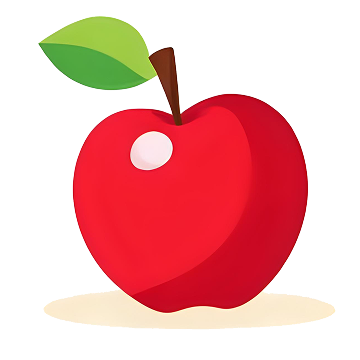
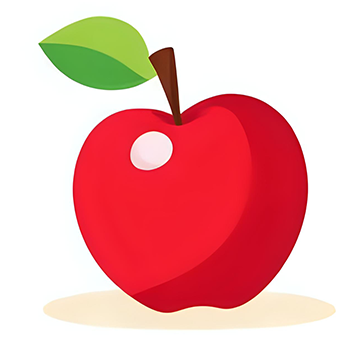
增加图片显示种类

Changed region(s): [[0.7333, 0.7944, 0.7639, 0.825], [0.4583, 0.1222, 0.4889, 0.1528]]

diff --git a/modules/play_pi.py b/modules/play_pi.py
@@ -168,9 +168,15 @@ def execute_response(data_dict: dict) -> bool:
                         english_word = str(noun)
                         chinese_word = ""
                     
+                    # 尝试使用单词对应的图片，如果不存在则使用默认图片
+                    word_image_path = os.path.join(PROJECT_ROOT, "imgs", "words", f"{english_word}.png")
+                    if not os.path.exists(word_image_path):
+                        word_image_path = default_word_image
+                        print(f"  ⚠ 单词图片不存在，使用默认图片: {word_image_path}")
+                    
                     # 名词：英文单词和中文翻译都要有
                     flashcard_maker.create_and_display(
-                        image_path=default_word_image,
+                        image_path=word_image_path,
                         english_word=english_word,
                         chinese_word=chinese_word,
                         display_driver=display_driver,
@@ -200,9 +206,15 @@ def execute_response(data_dict: dict) -> bool:
                         english_word = str(verb)
                         chinese_word = ""
                     
+                    # 尝试使用单词对应的图片，如果不存在则使用默认图片
+                    word_image_path = os.path.join(PROJECT_ROOT, "imgs", "words", f"{english_word}.png")
+                    if not os.path.exists(word_image_path):
+                        word_image_path = default_word_image
+                        print(f"  ⚠ 单词图片不存在，使用默认图片: {word_image_path}")
+                    
                     # 动词：英文单词和中文翻译都要有
                     flashcard_maker.create_and_display(
-                        image_path=default_word_image,
+                        image_path=word_image_path,
                         english_word=english_word,
                         chinese_word=chinese_word,
                         display_driver=display_driver,
@@ -232,9 +244,15 @@ def execute_response(data_dict: dict) -> bool:
                         english_word = str(adjective)
                         chinese_word = ""
                     
+                    # 尝试使用单词对应的图片，如果不存在则使用默认图片
+                    word_image_path = os.path.join(PROJECT_ROOT, "imgs", "words", f"{english_word}.png")
+                    if not os.path.exists(word_image_path):
+                        word_image_path = default_word_image
+                        print(f"  ⚠ 单词图片不存在，使用默认图片: {word_image_path}")
+                    
                     # 形容词：英文单词和中文翻译都要有
                     flashcard_maker.create_and_display(
-                        image_path=default_word_image,
+                        image_path=word_image_path,
                         english_word=english_word,
                         chinese_word=chinese_word,
                         display_driver=display_driver,
